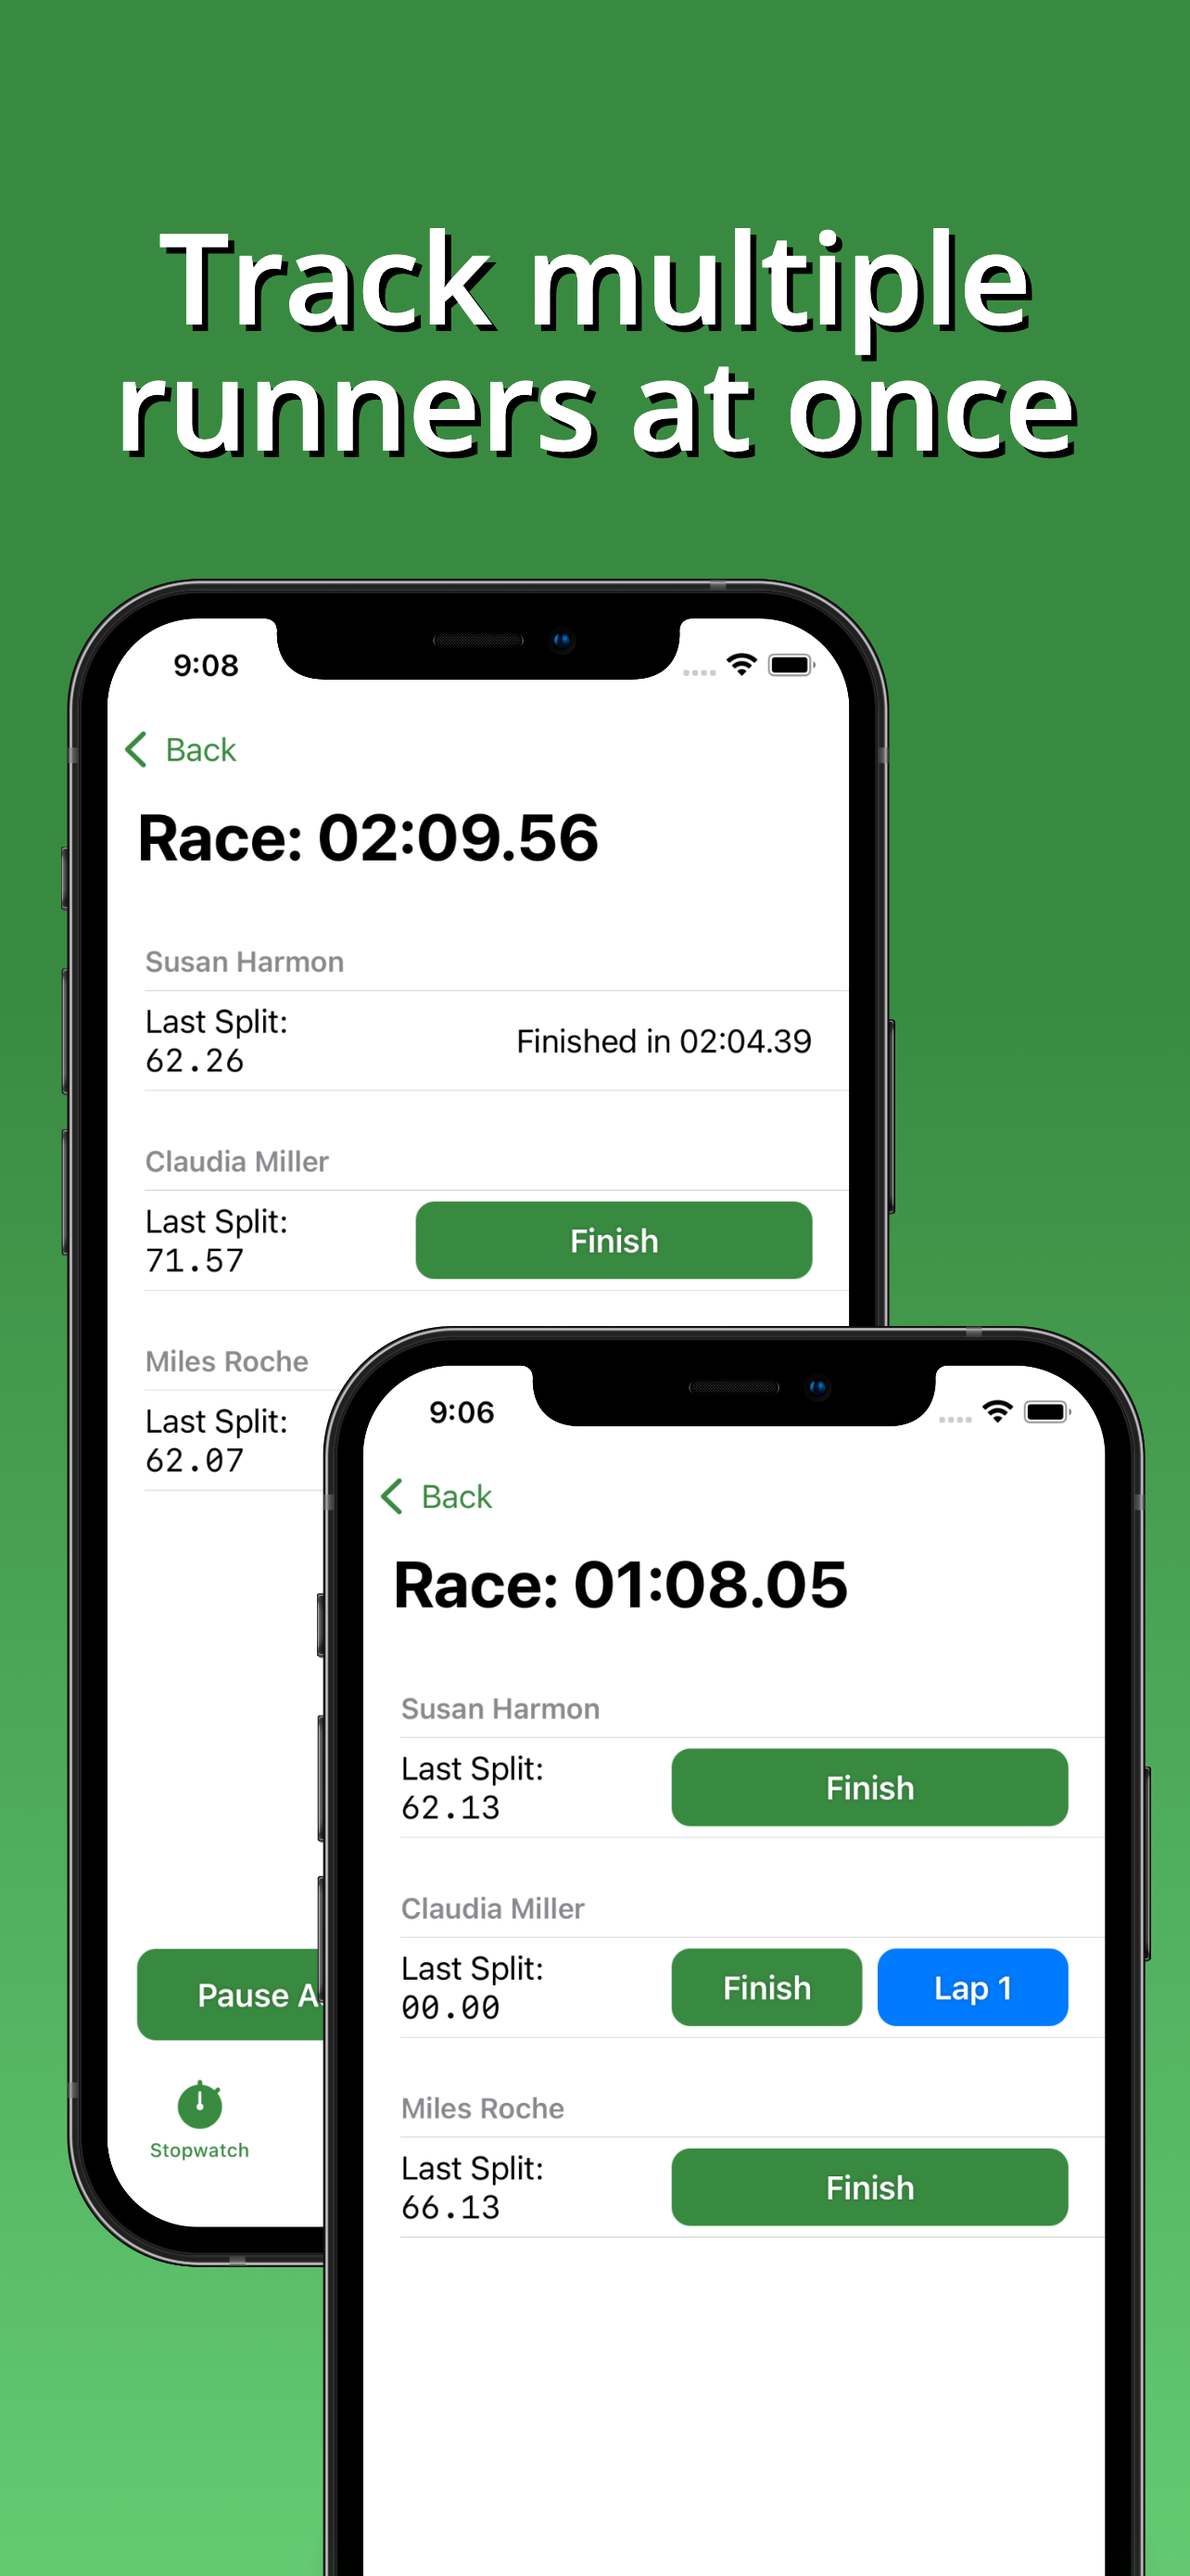
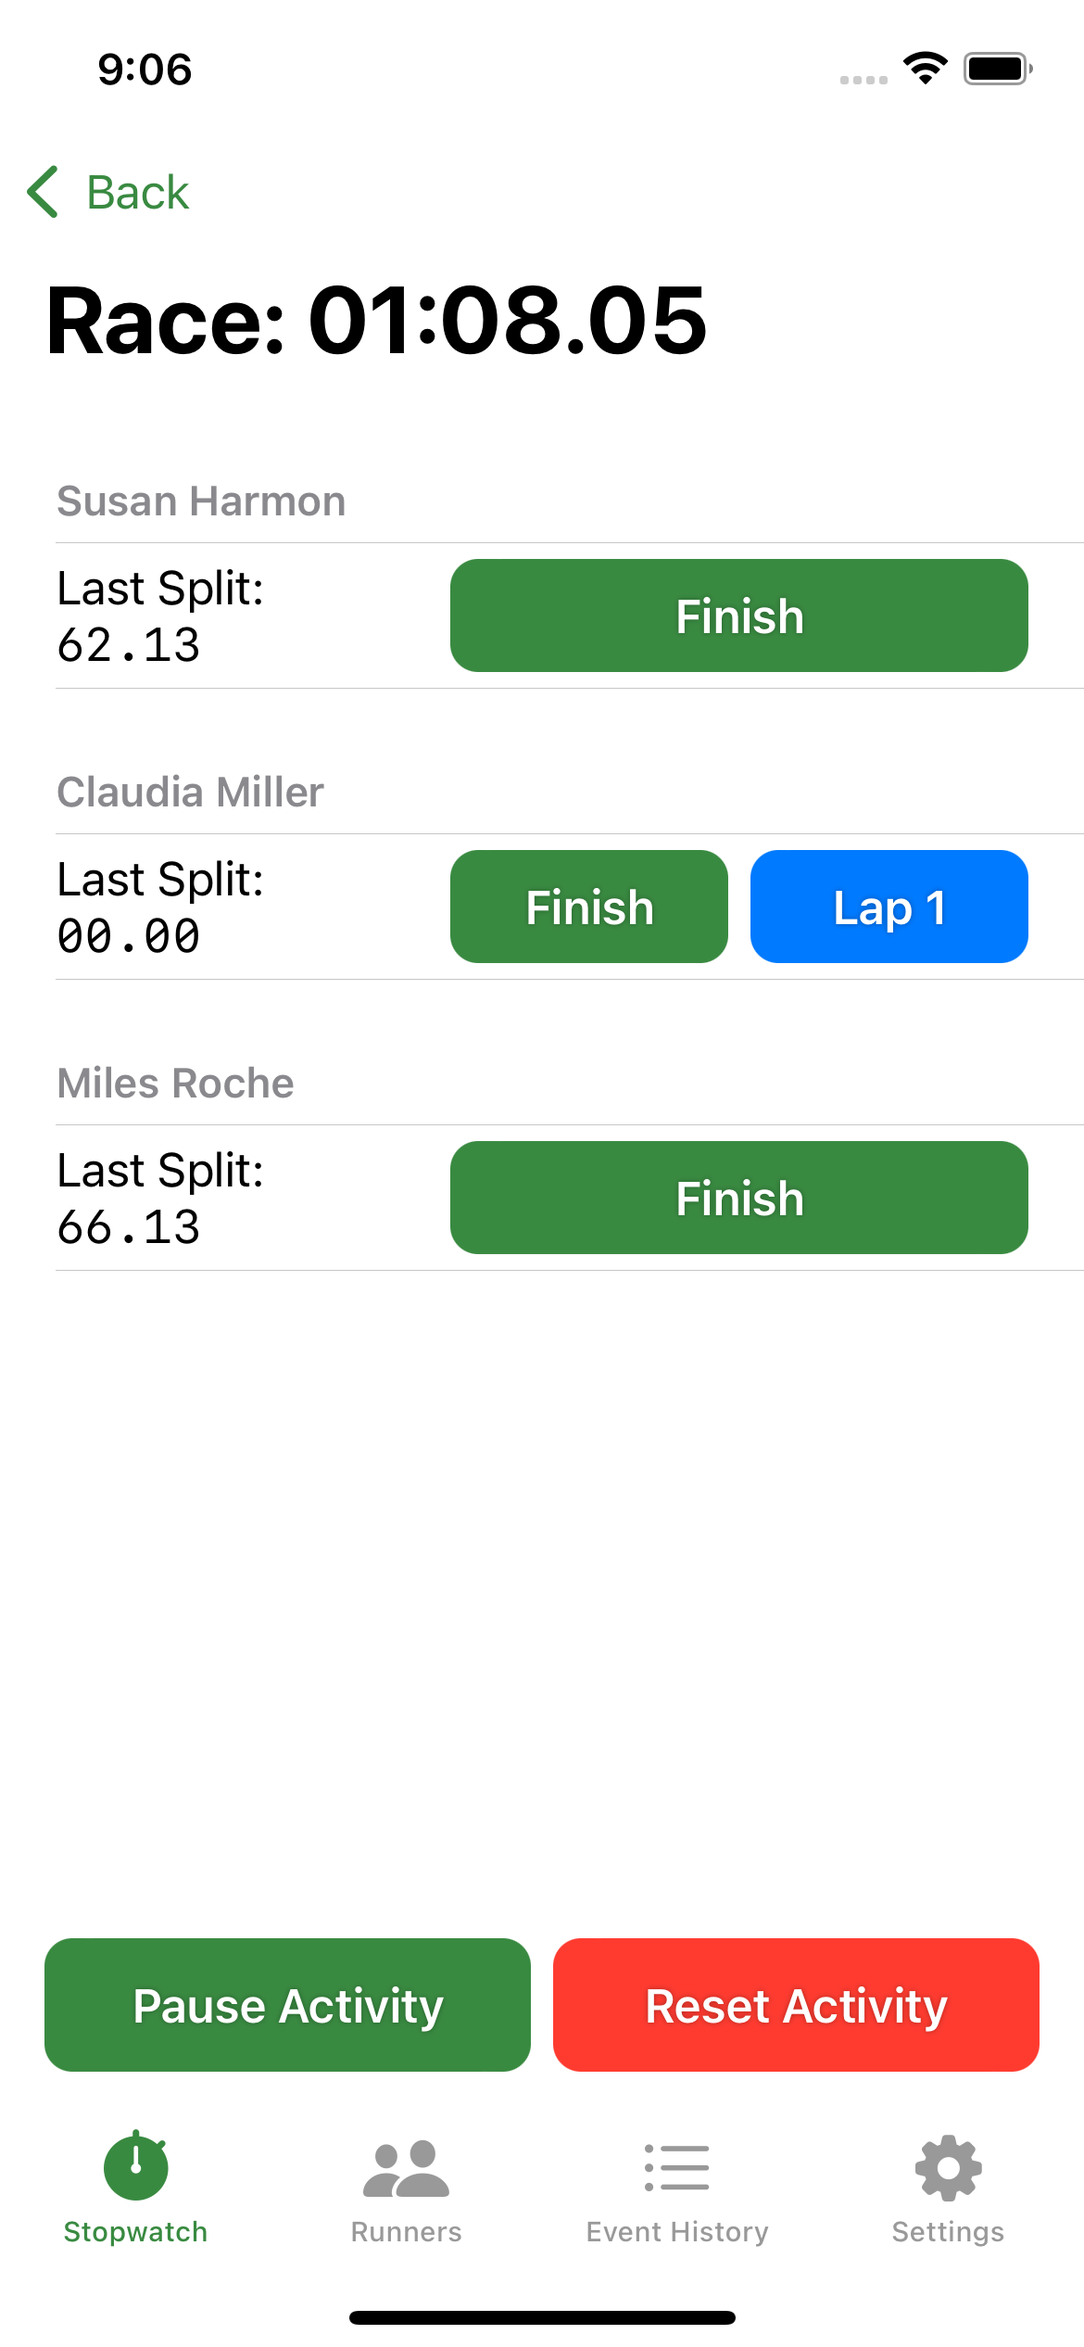
Add calcusplit details

diff --git a/index.html b/index.html
@@ -114,11 +114,66 @@
                 </div>
             </div>
             <div class="window-body">
-                <h2>K2CAT is currently <span class="keyword glow" id="on-air-status">off-air</span></h2>
-                <p id="on-air-details"></p>
-                <h3><a class="keyword glow" href="https://www.qrz.com/db/K2CAT" target="_blank" rel="noopener noreferrer">
-                    Find me on QRZ
-                </a></h3>
+
+                <!-- App Details -->
+                <h2><a class="keyword glow" href="https://apps.apple.com/us/app/calcusplit/id1563953421" target="_blank"
+                        rel="noopener noreferrer">CalcuSplit</a> is an all-in-one solution for track coaches and event
+                    organizers.
+                </h2>
+                <span>With CalcuSplit, you can:</span>
+                <ul>
+                    <li>Track multiple runners, each with their own stopwatch.</li>
+                    <li>Switch between races and workouts, allowing you to incorporate rest periods in between laps.
+                    </li>
+                    <li>Export your results as HTML for easy emailing or CSV for your own detailed analysis.</li>
+                    <li>Bulk-import your runners from a variety of spreadsheet sources.</li>
+                    <li>No telemetry or tracking! No login required!</li>
+                </ul>
+                <h2 class="app-store-link"><a class="keyword glow"
+                        href="https://apps.apple.com/us/app/calcusplit/id1563953421" target="_blank"
+                        rel="noopener noreferrer">Get it on the iOS App Store!</a></h2>
+
+                <!-- Screenshots -->
+                <div class="app-screenshot-container">
+                    <img class="app-screenshot glow" src="assets/calcusplit/calcusplit-1.png" />
+                    <img class="app-screenshot glow" src="assets/calcusplit/calcusplit-2.png" />
+                </div>
+
+                <!-- Privacy Policy -->
+                <h2><a class="keyword glow privacy-button" data-toggle-target="calcusplit-privacy-policy" href="#">Privacy Policy</a></h2>
+                <div class="privacy-policy privacy-policy-hidden" id="calcusplit-privacy-policy">
+                    <p>Joseph Iannazzone built the CalcuSplit app as a Free app with In-App Purchases. This service is
+                    provided by Joseph Iannazzone at no cost and is intended for use as is. This page is used to inform
+                    visitors regarding my policies with the collection, use, and disclosure of Personal Information if
+                    anyone decided to use my Service. If you choose to use my Service, then you agree to the collection
+                    and use of information in relation to this policy.</p>
+                    
+                    <h4>Information Collection and Use</h4>
+                    <p>No information is collected during the use of this app. All calculations, storage, and other related
+                    logic happens on the device. If you delete the app, your data is deleted in the manner dictated by
+                    your device. If you choose to purchase CalcuSplit Premium, data will be written to your device's
+                    storage indicating as such. If you choose to Restore Purchase, the device will contact Apple's
+                    servers to authenticate the previous purchase.
+                    Links to Other Sites</p>
+
+                    <p>This Service may contain links to other sites. If you click on a third-party link, you will be
+                    directed to that site. Note that these external sites are not operated by me. Therefore, I strongly
+                    advise you to review the Privacy Policy of these websites. I have no control over and assume no
+                    responsibility for the content, privacy policies, or practices of any third-party sites or services.</p>
+                    
+                    <h4>Changes to This Privacy Policy</h4>
+                    <p>I may update our Privacy Policy from time to time. Thus, you are advised to review this page
+                    periodically for any changes. I will notify you of any changes by posting the new Privacy Policy on
+                    this page.</p>
+                    
+                    <h4>Contact Us</h4>
+                    <p>If you have any questions or suggestions about my Privacy Policy, do not hesitate to contact me at
+                    <a class="keyword glow" href="mailto:calcuapps@iannaz.zone">calcuapps@iannaz.zone.</a></p>
+
+                    <p>This privacy policy page was created at Privacy Policy Template and modified/generated by App
+                    Privacy Policy Generator. Effective as of 2021-04-21.</p>
+                </div>
+                <!-- End Privacy Policy -->
             </div>
         </div>
         <!-- End CalcuSplit -->
@@ -147,9 +202,10 @@
             <div class="window-body">
                 <h2>K2CAT is currently <span class="keyword glow" id="on-air-status">off-air</span></h2>
                 <p id="on-air-details"></p>
-                <h3><a class="keyword glow" href="https://www.qrz.com/db/K2CAT" target="_blank" rel="noopener noreferrer">
-                    Find me on QRZ
-                </a></h3>
+                <h3><a class="keyword glow" href="https://www.qrz.com/db/K2CAT" target="_blank"
+                        rel="noopener noreferrer">
+                        Find me on QRZ
+                    </a></h3>
             </div>
         </div>
         <!-- End CalcuRun -->
@@ -178,9 +234,10 @@
             <div class="window-body">
                 <h2>K2CAT is currently <span class="keyword glow" id="on-air-status">off-air</span></h2>
                 <p id="on-air-details"></p>
-                <h3><a class="keyword glow" href="https://www.qrz.com/db/K2CAT" target="_blank" rel="noopener noreferrer">
-                    Find me on QRZ
-                </a></h3>
+                <h3><a class="keyword glow" href="https://www.qrz.com/db/K2CAT" target="_blank"
+                        rel="noopener noreferrer">
+                        Find me on QRZ
+                    </a></h3>
             </div>
         </div>
         <!-- End Lettercode -->
@@ -209,9 +266,10 @@
             <div class="window-body">
                 <h2>K2CAT is currently <span class="keyword glow" id="on-air-status">off-air</span></h2>
                 <p id="on-air-details"></p>
-                <h3><a class="keyword glow" href="https://www.qrz.com/db/K2CAT" target="_blank" rel="noopener noreferrer">
-                    Find me on QRZ
-                </a></h3>
+                <h3><a class="keyword glow" href="https://www.qrz.com/db/K2CAT" target="_blank"
+                        rel="noopener noreferrer">
+                        Find me on QRZ
+                    </a></h3>
             </div>
         </div>
         <!-- End Fanciful Fonts -->
@@ -239,9 +297,10 @@
             <div class="window-body">
                 <h2>K2CAT is currently <span class="keyword glow" id="on-air-status">off-air</span></h2>
                 <p id="on-air-details"></p>
-                <h3><a class="keyword glow" href="https://www.qrz.com/db/K2CAT" target="_blank" rel="noopener noreferrer">
-                    Find me on QRZ
-                </a></h3>
+                <h3><a class="keyword glow" href="https://www.qrz.com/db/K2CAT" target="_blank"
+                        rel="noopener noreferrer">
+                        Find me on QRZ
+                    </a></h3>
             </div>
         </div>
 

diff --git a/scripts/app.js b/scripts/app.js
@@ -192,3 +192,17 @@ document.querySelectorAll('.window-header').forEach(header => {
         isDragging = false;
     });
 });
+
+// Privacy Policy Toggles
+const privacyButtons = document.querySelectorAll('.privacy-button');
+privacyButtons.forEach((button) => {
+    button.addEventListener('click', function() {
+        const privacyPolicy = document.getElementById(button.dataset.toggleTarget)
+        
+        if (privacyPolicy.classList.contains('privacy-policy-hidden')) {
+            privacyPolicy.classList = 'privacy-policy';
+        } else {
+            privacyPolicy.className = 'privacy-policy privacy-policy-hidden';
+        }
+    })
+});

diff --git a/styles/windows.css b/styles/windows.css
@@ -81,3 +81,36 @@
     margin: 3rem 0 3rem 0;
     line-height: 1.5rem;
 }
+
+.app-store-link, .privacy-button {
+    width: fit-content;
+    cursor: pointer;
+}
+
+.app-screenshot-container {
+    width: 100%;
+    display: flex;
+    flex-direction: row;
+    align-items: center;
+    justify-content: space-evenly;
+    object-fit: contain;
+}
+
+.app-screenshot {
+    margin: 0.25rem;
+    max-width: 33%;
+    max-height: 750px;        
+    border: var(--crt-amber) 2px solid;
+}
+
+.privacy-button {
+    margin-top: 2rem;
+}
+
+.privacy-policy {
+    line-height: 0rem;
+}
+
+.privacy-policy-hidden {
+    display: none;
+}

diff --git a/styles/style.css b/styles/style.css
@@ -91,6 +91,7 @@ main {
     justify-content: center;
     align-items: center;
     padding: 1rem;
+    overflow-y: scroll;
 }
 
 footer {
@@ -178,7 +179,7 @@ input[type="checkbox"]:checked::before {
 
 /* Miscellaneous Element Styling */
 .glow {
-    box-shadow: 0 0 1rem -0.5rem var(--crt-glow);
+    box-shadow: 0 0 1.25rem -0.5rem var(--crt-glow);
     transition: 500ms ease-out;
 }
 
@@ -203,4 +204,3 @@ a.keyword:hover {
     border: var(--crt-amber) 2px solid;
     transition: 100ms ease-in-out;
 }
-
